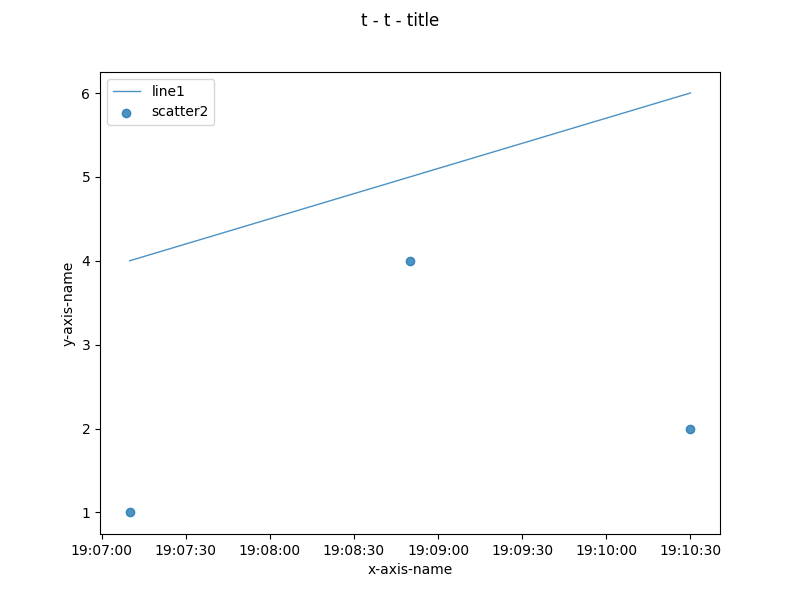
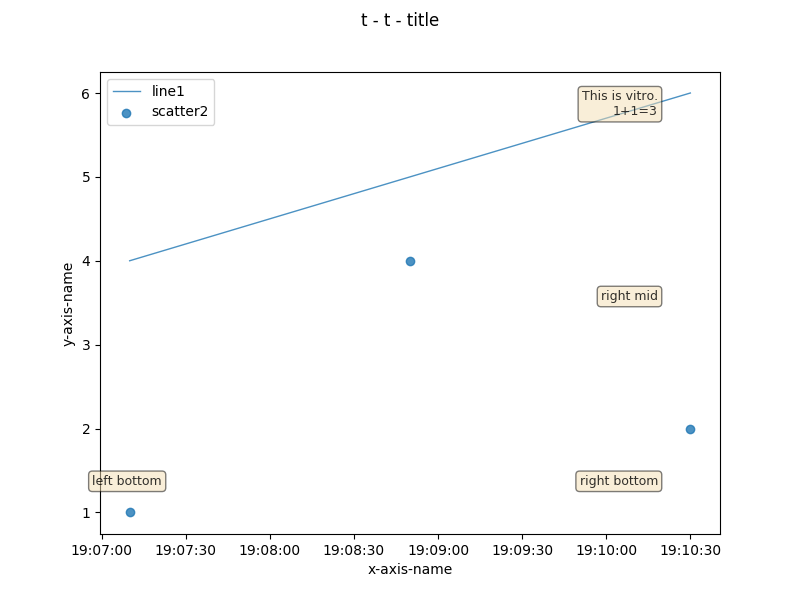
add text

diff --git a/vitro.cc b/vitro.cc
@@ -94,6 +94,14 @@ Area& Axes::area(const std::string& name, const std::vector<int64_t>& xs, const 
   return areas.back();
 }
 
+Text& Axes::text(const std::string& text, double x, double y) {
+  texts.emplace_back();
+  texts.back().text = text;
+  texts.back().x = x;
+  texts.back().y = y;
+  return texts.back();
+}
+
 Matplot::Matplot(const Figure& fig) {
   make_sure_initialized();
 
@@ -224,6 +232,32 @@ Matplot::Matplot(const Figure& fig) {
         Py_DecRef(kwargs);
         Py_DecRef(plot);
         Py_DecRef(pyarea);
+      }
+
+      for (const auto& text : ax.texts) {
+        auto props = Py_BuildValue("{s:s, s:s, s:d}", "boxstyle", text.bbox_style.c_str(), "facecolor",
+                                   text.bbox_color.c_str(), "alpha", text.bbox_alpha);
+        PyObject* transform;
+        if (text.transform == "axes") {
+          transform = PyObject_GetAttrString(pyax, "transAxes");
+        } else {
+          throw std::runtime_error("unknown text coordinate transform: " + text.transform);
+        }
+        auto plot = PyObject_GetAttrString(pyax, "text");
+        auto args = Py_BuildValue("(dds)", text.x, text.y, text.text.c_str());
+        auto kwargs =
+            Py_BuildValue("{s:d,s:d,s:O,s:O,s:s,s:s}", "fontsize", text.fontsize, "alpha", text.alpha, "transform",
+                          transform, "bbox", props, "verticalalignment", text.verticalalignment.c_str(),
+                          "horizontalalignment", text.horizontalalignment.c_str());
+
+        auto pytext = PyObject_Call(plot, args, kwargs);
+        if (pytext == nullptr) {
+          throw std::runtime_error("cannot draw a text");
+        }
+        Py_DecRef(args);
+        Py_DecRef(kwargs);
+        Py_DecRef(plot);
+        Py_DecRef(pytext);
       }
       PyObject_CallMethod(pyax, "legend", nullptr);
       Py_DecRef(pyax);

diff --git a/vitro.h b/vitro.h
@@ -76,6 +76,23 @@ public:
   std::vector<double> y2s;
 };
 
+class Text {
+public:
+  double alpha = 0.8;
+  double fontsize = 9.0;
+  std::string text;
+  double x; // 0~1
+  double y; // 0~1
+  std::string horizontalalignment = "right";
+  std::string verticalalignment = "bottom";
+  std::string transform = "axes"; // data, axes, figure
+
+  // bbox
+  double bbox_alpha = 0.5;
+  std::string bbox_color = "wheat";
+  std::string bbox_style = "round";
+};
+
 class Axes {
 public:
   /* ---------------------------------- plot ---------------------------------- */
@@ -83,6 +100,7 @@ public:
   Scatter& scatter(const std::string& name, const std::vector<int64_t>& xs, const std::vector<double>& ys);
   Area& area(const std::string& name, const std::vector<int64_t>& xs, const std::vector<double>& y1s,
              const std::vector<double>& y2s);
+  Text& text(const std::string& text, double x, double y);
 
   std::string title{};
   std::string xlabel;
@@ -91,6 +109,7 @@ public:
   std::vector<Line> lines;
   std::vector<Scatter> scatters;
   std::vector<Area> areas;
+  std::vector<Text> texts;
 };
 
 class Figure {

diff --git a/example.cc b/example.cc
@@ -7,6 +7,11 @@ void plot1() {
   auto& ax = fig.axes(1, 1);
   ax.line("line1", {1583521630'000'000'000, 1583521730'000'000'000, 1583521830'000'000'000}, {4, 5, 6});
   ax.scatter("scatter2", {1583521630'000'000'000, 1583521730'000'000'000, 1583521830'000'000'000}, {1, 4, 2});
+  ax.text("This is vitro.\n1+1=3", 0.9, 0.9);
+  ax.text("left bottom", 0.1, 0.1);
+  ax.text("right mid", 0.9, 0.5);
+  ax.text("right bottom", 0.9, 0.1);
+
   ax.xlabel = "x-axis-name";
   ax.ylabel = "y-axis-name";
   ax.is_x_nanotimestamps = true;
